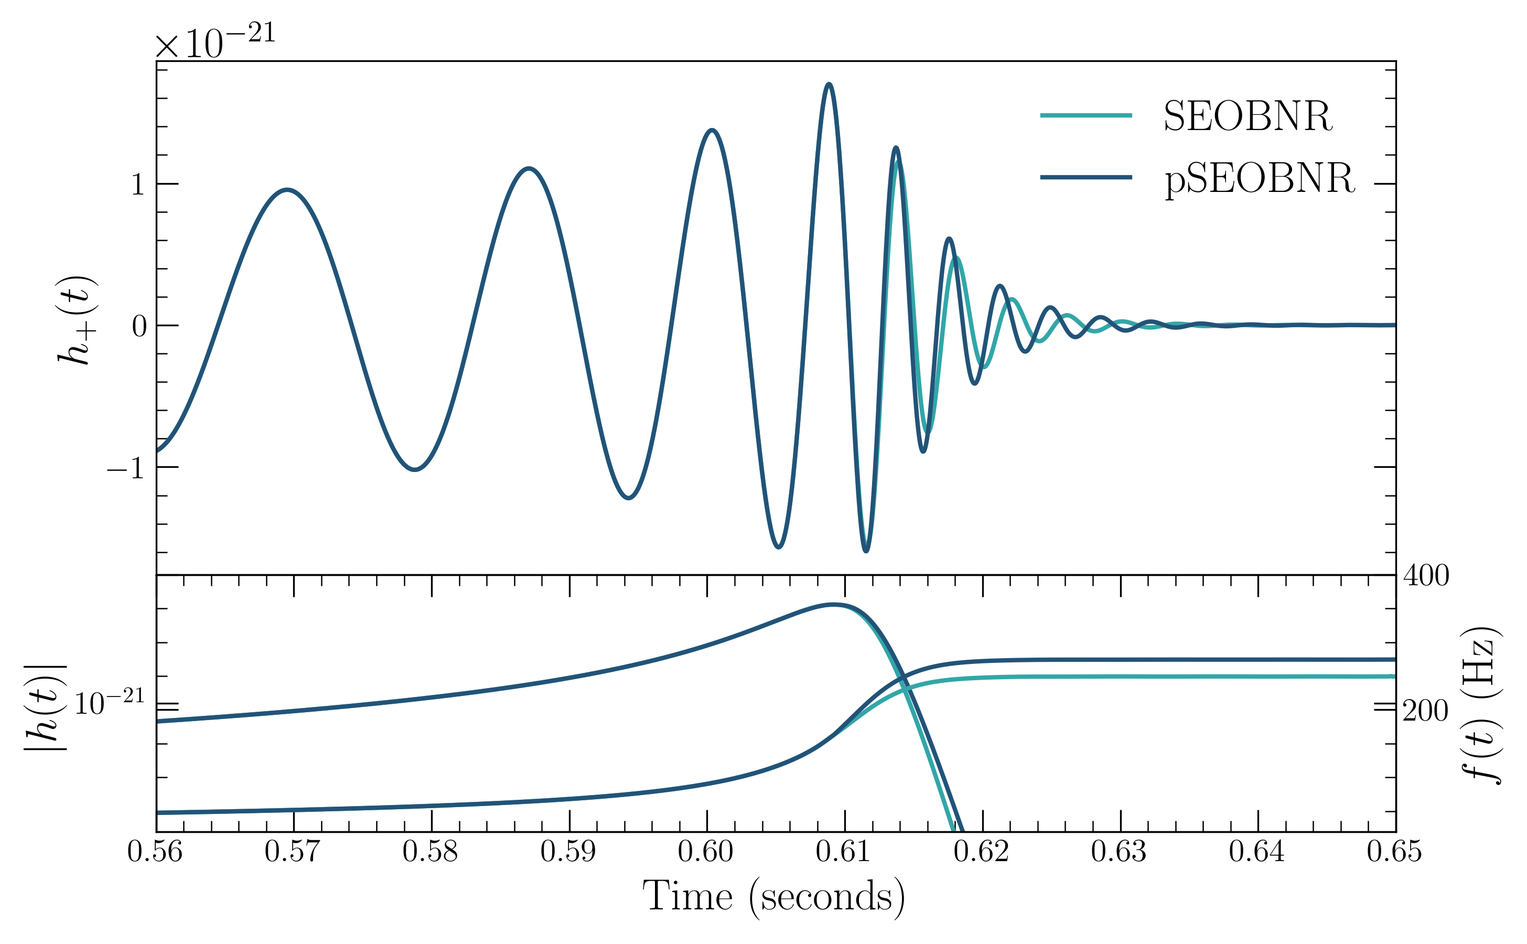
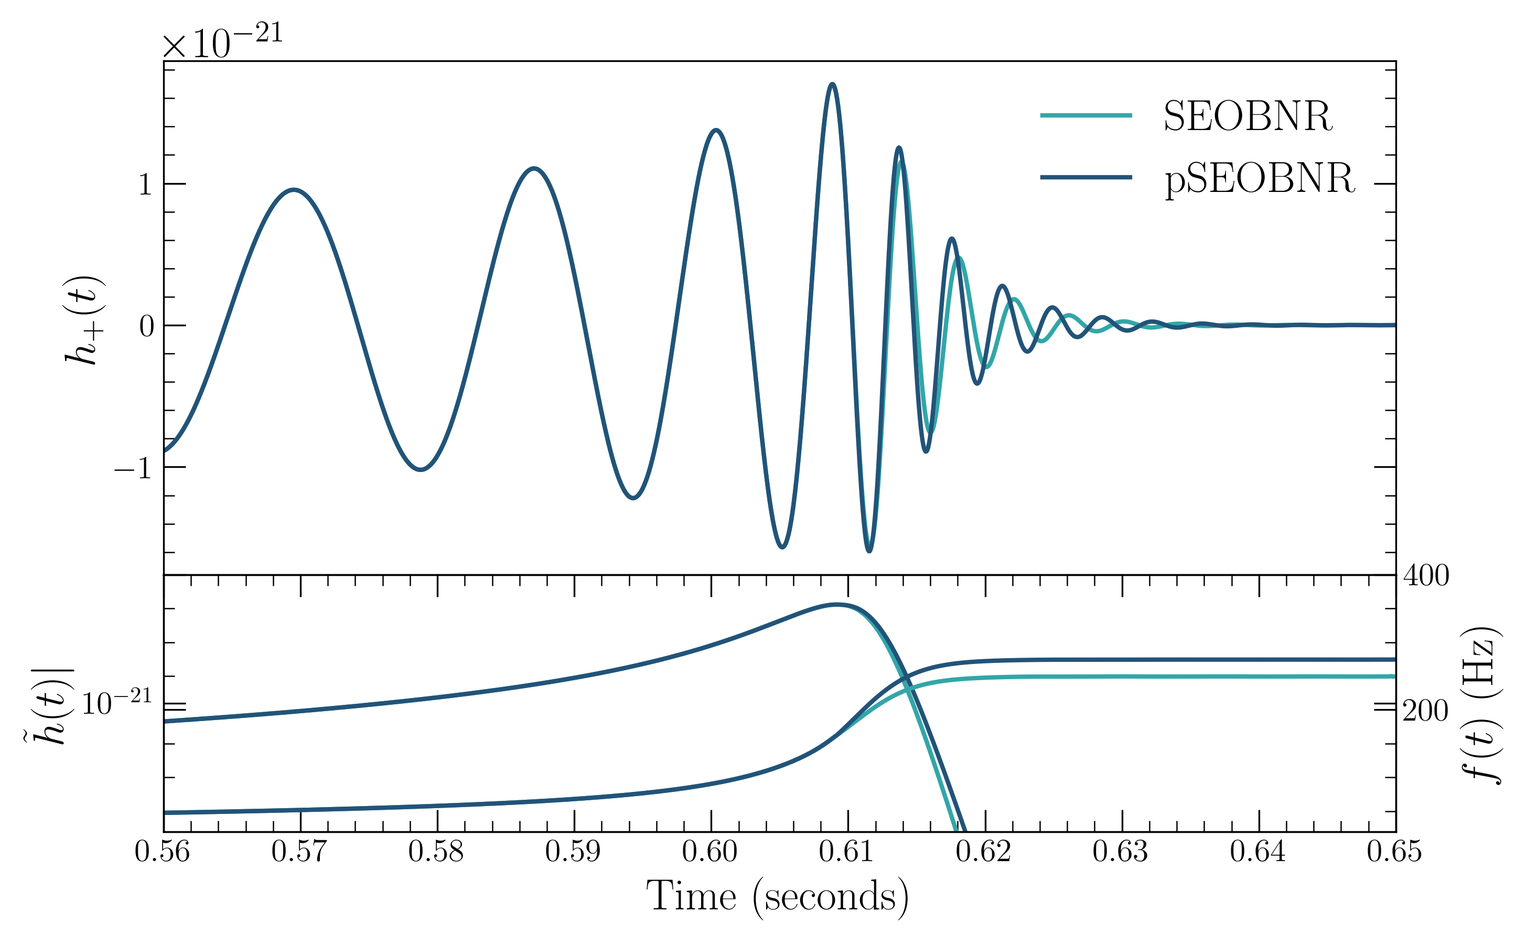
minor changes

diff --git a/papers/intro_paper/results_synthetic.tex b/papers/intro_paper/results_synthetic.tex
@@ -1,9 +1,9 @@
 \subsection{Simulations using GR signals in Gaussian noise} \label{ssec:gr_signal}
 
-We \ab{now} demonstrate our method using synthetic-signal injections describing GWs
+We now demonstrate our method using synthetic-signal injections describing GWs
 from BBHs in GR. We employ coloured Gaussian noise with PSDs for LIGO and
-Virgo detectors \ab{during the fourth observing (O4) run} (i.e., at design sensitivity)\ab{, which 
-is expected to start yin the second half of 2022}~\cite{AdvLIGOPSD,TheVirgo:2014hva}.
+Virgo detectors during the fourth observing (O4) run (i.e., at design sensitivity), which 
+is expected to start yin the second half of 2022~\cite{AdvLIGOPSD,TheVirgo:2014hva}.
 For the mock BBH signals, we choose parameters similar to two specific GW events, GW150914~\cite{Abbott:2016blz} and
 GW190521~\cite{Abbott:2020tfl}. We list them in Table~\ref{tab:injection_values}.
 These two binary systems are representative of the kind of systems for which
@@ -30,7 +30,7 @@ pre- and post-merger SNRs return reliable parameter-estimation results.
           and damping time of the $(2,2)$ QNM, $(\df{220},\dtau{220})$
           (left panels) and the reconstructed quantities,
           $(\fngr{220}, \taungr{220})$ (right panels) for GR
-          injections \ab{($\SEOB$)} with initial parameters similar to GW150914 (top
+          injections ($\SEOB$) with initial parameters similar to GW150914 (top
           panels) and GW190521 (bottom panels)
           (see Table~\ref{tab:injection_values}). The 2D contour marks the
           90\% credible region, while the dashed lines on the 1D
@@ -50,7 +50,7 @@ simulate our GW signal. And to avoid systematic biases due to noise,
 we use an averaged (zero-noise) realization of the noise. \footnote{A detailed
 study on noise systematics for one of the GW events is presented in
 Appendix~\ref{sec:noise_systematics}.}  As in the case of the actual
-detections \ab{of GW150914 and GW190521}, we consider a two-detector LIGO network at
+detections of GW150914 and GW190521, we consider a two-detector LIGO network at
 Hanford and Livingston, having identical PSDs. The distance to the two 
 synthetic events is rescaled such that the SNR in the detector network
 is the same as the actual events (i.e., 24 for GW150914 and 14
@@ -88,7 +88,7 @@ although the pre-merger signal is identical to GR. In Fig.~\ref{fig:nongr_wavefo
 we show this non-GR waveform, \texttt{pSEOBNR} with respect to the 
 original GR template, \texttt{SEOBNR}. We see that the waveforms are identical in amplitude
 and instanteneous frequency upto the merger (lower panel) , beyond which the 
-red (GR template) and blue (non-GR template) \sout{diverge} \ab{differ}. We summarize the results of the Bayesian analysis in Fig.~\ref{fig:simulated_signal_nonGR} where we
+red (GR template) and blue (non-GR template) differ. We summarize the results of the Bayesian analysis in Fig.~\ref{fig:simulated_signal_nonGR} where we
 show the posterior probability distributions for $(\df{220}, \dtau{220})$, or equivalently
 $(\fngr{220}, \taungr{220})$. We find that they are consistent with the corresponding
 values of the injection parameters, indicated by the black dashed lines.
@@ -97,7 +97,7 @@ values of the injection parameters, indicated by the black dashed lines.
 %%%%%%%%%%%%%%%%%%%%%%%%%%%%%%%%%%%%%%%%%%%%%%%%%%%%%%%%%%%%%%%
 \begin{figure}
         \includegraphics[width=0.5\textwidth]{figures/modGR_waveforms_amplitudephase.png}
-        \caption{\textcolor{red}{FINAL RESULT} Top panel: The `+'--polarization of the gravitational waveform $h_+(t)$ from a GW150914-like event where the post-merger is described by GR (i.e., $\df{220} = \dtau{220} = 0$), and where the merger-ringdown is modified (i.e., $\df{220} = \dtau{220} = 0.1$). Bottom panel: Comparison of the evolution of the amplitude, $\tilde{h}(t)$ (left) \comment{AB: what is the amplitude $h$? How is it obtained from the polarizations?} and instantaneous frequency, $f(t)$ (right) for the GR and non-GR signal.}
+        \caption{\textcolor{red}{FINAL RESULT} Top panel: The `+'--polarization of the gravitational waveform $h_+(t)$ from a GW150914-like event where the post-merger is described by GR (i.e., $\df{220} = \dtau{220} = 0$), and where the merger-ringdown is modified (i.e., $\df{220} = \dtau{220} = 0.1$). Bottom panel: Comparison of the evolution of the amplitude, $\tilde{h}(t)$ (left) and instantaneous frequency, $f(t)$ (right) for the GR and non-GR signal.}
         \label{fig:nongr_waveform}
 \end{figure}
 %%%%%%%%%%%%%%%%%%%%%%%%%%%%%%%%%%%%%%%%%%%%%%%%%%%%%%%%%%%%%%%
@@ -110,7 +110,7 @@ values of the injection parameters, indicated by the black dashed lines.
 \begin{center}
         \includegraphics[width=0.5\textwidth]{figures/GW150914_simulated_signal_0p1_deltaf220_deltatau220.png}\includegraphics[width=0.5\textwidth]{figures/GW150914_simulated_signal_0p1_gr_ngr_fngrtaungr.png}
         \includegraphics[width=0.5\textwidth]{figures/GW190521_simulated_signal_0p1_deltaf220_deltatau220.png}\includegraphics[width=0.5\textwidth]{figures/GW190521_simulated_signal_0p1_gr_ngr_fngrtaungr.png}
-        \caption{\textcolor{red}{FINAL RESULT} Posterior probability distribution on the fractional deviations in the frequency and damping time of the $(2,2)$ QNM, $(\df{220},\dtau{220})$ (left panels) and the reconstructed quantities, $(\fngr{220}, \taungr{220})$ (right panels) for non-GR injections \ab{($\pSEOB$)} with parameters of GW150914-like (top panels) and GW190521-like (bottom panels) as given in Table~\ref{tab:injection_values}. The non-GR signal has a deviation, $\df{220} = \dtau{220} = 0.1$. The 2D contour marks the 90\% credible region, while the dashed lines on the 1D marginalized distributions mark the 90\% credible levels. The black vertical and horizontal lines mark the injection values. In the right panels, we additionally show measurements using a GR ($\SEOB$) waveform, for the
+        \caption{\textcolor{red}{FINAL RESULT} Posterior probability distribution on the fractional deviations in the frequency and damping time of the $(2,2)$ QNM, $(\df{220},\dtau{220})$ (left panels) and the reconstructed quantities, $(\fngr{220}, \taungr{220})$ (right panels) for non-GR injections ($\pSEOB$) with parameters of GW150914-like (top panels) and GW190521-like (bottom panels) as given in Table~\ref{tab:injection_values}. The non-GR signal has a deviation, $\df{220} = \dtau{220} = 0.1$. The 2D contour marks the 90\% credible region, while the dashed lines on the 1D marginalized distributions mark the 90\% credible levels. The black vertical and horizontal lines mark the injection values. In the right panels, we additionally show measurements using a GR ($\SEOB$) waveform, for the
 GW150914-like (upper panel) and GW190521-like (lower panel) injections. The measurements with $\SEOB$ waveforms are visibly biased.}
         \label{fig:simulated_signal_nonGR}
 \end{center}
@@ -156,12 +156,7 @@ resulting one- and two-dimensional posteriors are shown in the right
 panels of Fig.~\ref{fig:simulated_signal_nonGR} by red curves for the
 GW150914-like (top) and GW190521-like (bottom) signals
 respectively. For both signals, we find the $\SEOB$ estimates are
-markedly biased with respect to the $\pSEOB$ estimates. \sout{This can be
-explained by the inability of the $\SEOB$ template waveform to capture
-all the physics in the $\pSEOB$ signal.} \comment{AB: I erased the previous sentence because 
-$\pSEOB$ has not ``more'' physics. We varied the QNMs by 10\% with respect GR, we have a different gravity theory 
-which we cannot match with a GR template. I don't think we need to give any explanation of the results, 
-they are self-evident to me.} We also notice that the
+markedly biased with respect to the $\pSEOB$ estimates. We also notice that the
 results are distinctly different for the two events. For the
 GW150914-like non-GR signal, the measurements of $(\fgr{220},
 \taugr{220})$ (top right panel in
@@ -176,8 +171,7 @@ GW190521-like non-GR signal, a simple GR analysis of the non-GR signal
 would have yielded measurements distinctly different from either of
 the two parameterized estimates: with and without deviations.
 
-Finally, we investigate the impact on the estimation of \ab{the} GR parameters
-\sout{discussed in Sec.~\ref{sec:method},} $\bxigr$ as we change the
+Finally, we investigate the impact on the estimation of the GR parameters $\bxigr$ as we change the
 magnitude of deviation in the non-GR parameters. We restrict ourselves 
 to a GW150914-like event, and for comparison, add a synthetic signal
 with $\df{220} = \dtau{220} = 0.5$, or 50 \% deviation, alongside the
@@ -220,39 +214,39 @@ We also choose the distance and orientation of the binary
 such that the total SNR in the three-detector network of LIGO Hanford, Livingston and
 Virgo, is \macro{$\sim$ 70}. Based on the LIGO-Virgo observations during the first three observing runs, 
 such asymmetric and loud signals are no longer just a theoretical
-prediction, but quite plausible \ab{during O4.} \sout{at design sensitivities.} Using this
-signal, we attempt to measure both the $(2,\pm 2)$ and
-$(3,\pm 3)$ QNMs. For this injected signal the SNR in
+prediction, but quite plausible during O4. Using this
+signal, we attempt to measure both the $(2,2)$ and
+$(3,3)$ QNMs. For this injected signal the SNR in
 other sub-dominant modes is too low to be able to measure them.
 
 We summarize our results in Fig.~\ref{fig:nohair_sxs}.  Given the
-injection parameters, the predicted values of the $(2,\pm 2)$ and
-$(3,\pm 3)$ frequency and damping time are \macro{(169.45 Hz, 4.68
+injection parameters, the predicted values of the $(2, 2)$ and
+$(3, 3)$ frequency and damping time are \macro{(169.45 Hz, 4.68
   ms)} and \macro{(271.21 Hz, 4.50 ms)} respectively. The left panel
 of Fig.~\ref{fig:nohair_sxs} shows that the 2D posteriors
-on the $(2,\pm 2)$ and $(3,\pm 3)$ QNMs are consistent with the
+on the $(2, 2)$ and $(3, 3)$ QNMs are consistent with the
 predictions for a BBH merger in GR, indicated by the black plus sign.
 Using fitting formulae provided in Ref.~\cite{Berti:2005ys}, specifically,
 Eq.~(2.1), Eq.~(E1) and Eq.~(E3) and Tables VIII and IX for the fitting coefficients,
 we infer the 2D posterior probability distribution on the
-final mass and spin for the $(2,\pm 2)$ (blue) and $(3,\pm 3)$ (red)
+final mass and spin for the $(2, 2)$ (blue) and $(3, 3)$ (red)
 QNMs in the right panel of Fig.~\ref{fig:nohair_sxs}. The two
 independent estimates are consistent with each other and correspond to
 a unique mass and spin for the remnant BH \macro{(83.08 $\Mo$, 0.37)}
 indicated by the plus sign. As a consequence, this may be considered
 as a test of the no-hair conjecture. For most of the events observed
-so far, the power in the $(3,\pm 3)$ has not been sufficient to
-measure it along with the $(2,\pm 2)$, or in fact, in its
+so far, the power in the $(3, 3)$ has not been sufficient to
+measure it along with the $(2, 2)$, or in fact, in its
 place. However, it might also be possible to combine information from
 multiple observation over the coming few years to obtain meaningful
-constraints on the $(3,\pm 3)$ and other sub-dominant QNMs.
+constraints on the $(3, 3)$ and other sub-dominant QNMs.
 
 %%%%%%%%%%%%%%%%%%%%%%%%%%%%%%%%%%%%%%%%%%%%%%%%%%%%%%%%%%%%%%%
 
 %%%%%%%%%%%%%%%%%%%%%%%%%%%%%%%%%%%%%%%%%%%%%%%%%%%%%%%%%%%%%%%
 \begin{figure}
         \includegraphics[width=0.5\textwidth]{figures/nohair_sxs_0166.png}
-        \caption{\textcolor{red}{PRELIMINARY} Posterior probability distribution on the fractional deviations (left panel) and the reconstructed (right panel) frequency and damping time of the $(2,\pm 2)$ (blue curves) and $(3,\pm 3)$ (red curves) QNM, respectively, when a NR signal with parameters $q=6$,  $M=84 \Mo$ and SNR $=75$ is injected in Gaussian noise and recovered with the $\pSEOB$ waveform model. The plus signs mark the GR predictions.}
+        \caption{\textcolor{red}{FINAL RESULT} Posterior probability distribution on the fractional deviations (left panel) and the reconstructed (right panel) frequency and damping time of the $(2, 2)$ (blue curves) and $(3, 3)$ (red curves) QNM, respectively, when a NR signal with parameters $q=6$,  $M=84 \Mo$ and SNR $=75$ is injected in Gaussian noise and recovered with the $\pSEOB$ waveform model. The plus signs mark the GR predictions.}
         \label{fig:nohair_sxs}
 \end{figure}
 %%%%%%%%%%%%%%%%%%%%%%%%%%%%%%%%%%%%%%%%%%%%%%%%%%%%%%%%%%%%%%%

diff --git a/papers/intro_paper/results_lvc.tex b/papers/intro_paper/results_lvc.tex
@@ -3,7 +3,7 @@
 %%%%%%%%%%%%%%%%%%%%%%%%%%%%%%%%%%%%%%%%%%%%%%%%%%%%%%%%%%%%%%%
 \begin{figure*}
         \includegraphics[width=0.5\textwidth]{figures/rin_pseob_results_v2.pdf}\includegraphics[width=0.3\textwidth]{figures/rin_all_events_bounds.pdf}
-        \caption{\emph{Left panel}:The 90\% credible levels of the posterior probability distribution of the fractional deviations in the frequency and damping time of the $(2,\pm 2)$ QNM, $(\df{220},\dtau{220})$ and their corresponding one-dimensional marginalized posterior distributions, for events from O1, O2 and O3a passing a SNR threshold of $8$ in both the pre- and post-merger signal. The solid red curve marks the best single-event constraint, GW150914, whereas the contraints from the other events are indicated by the dash-dot curves. The joint constraints on $(\df{220},\dtau{220})$ obtained multiplying the likelihoods from individual events is given by the filled grey contours, while the hierarchical method of combination yields the black dot dashed curves. \emph{Right panel}: 90\% credible interval on the one-dimensional marginalised posteriors on $\delta \sigma_i=(\df{220},\dtau{220})$, colored by the median redshifted total mass $(1 + z)M$, inferred assuming GR. Filled gray (unfilled black) triangles mark the constraints obtained when all the events are combined by multiplying likelihoods (hierarchically).}
+        \caption{\emph{Left panel}:The 90\% credible levels of the posterior probability distribution of the fractional deviations in the frequency and damping time of the $(2, 2)$ QNM, $(\df{220},\dtau{220})$ and their corresponding one-dimensional marginalized posterior distributions, for events from O1, O2 and O3a passing a SNR threshold of $8$ in both the pre- and post-merger signal. The solid red curve marks the best single-event constraint, GW150914, whereas the contraints from the other events are indicated by the dash-dot curves. The joint constraints on $(\df{220},\dtau{220})$ obtained multiplying the likelihoods from individual events is given by the filled grey contours, while the hierarchical method of combination yields the black dot dashed curves. \emph{Right panel}: 90\% credible interval on the one-dimensional marginalised posteriors on $\delta \sigma_i=(\df{220},\dtau{220})$, colored by the median redshifted total mass $(1 + z)M$, inferred assuming GR. Filled gray (unfilled black) triangles mark the constraints obtained when all the events are combined by multiplying likelihoods (hierarchically).}
         \label{fig:o1o2_events}
 \end{figure*}
 %%%%%%%%%%%%%%%%%%%%%%%%%%%%%%%%%%%%%%%%%%%%%%%%%%%%%%%%%%%%%%%
@@ -13,7 +13,7 @@
 
 The LIGO-Virgo Collaboration recently released their testing GR
 catalogue containing results for events observed
-during O3a~\cite{Abbott:2020jks}. For the test that we here present, the results shown in Ref.~\cite{Abbott:2020jks} only include events which pass a threshold for the median \sout{redshifted} \ab{detector} total mass $\geq 90 \Mo$ and SNRs in the pre- and
+during O3a~\cite{Abbott:2020jks}. For the test that we here present, the results shown in Ref.~\cite{Abbott:2020jks} only include events which pass a threshold for the median detector-frame total mass $\geq 90 \Mo$ and SNRs in the pre- and
 post-merger regions $\geq 8$~\footnote{The pre- and post-merger regions of the signal are identified from the signal's power before and after the signal reaches the peak's amplitude, which is determined from the maximum of the likelihood function obtained with the parameter-estimation analysis. The SNR values are listed in Table 4 of Ref.~\cite{Abbott:2020jks}}. 
 %
 The SNR threshold ensures that the signal contains sufficient
@@ -31,8 +31,8 @@ for the analysis, for this paper we run the test on all the events
 listed in Ref.~\cite{Abbott:2020jks} that have SNRs in the pre- and
 post-merger regions $\geq 8$, without imposing any mass threshold.
 
-\ab{Given the above we add the signals}  GW190630$\_$185205 and GW190828$\_$063405, to the list of GW events considered in Ref.~\cite{Abbott:2020jks}. \ab{Furthermore, for the first time, 
-we apply our method to measure the QNMs to GW events from O1 and O2, notably GW150914 and GW170104.} The other high-mass events from O1 and O2, GW170729, GW170809,
+Given the above we add the signals  GW190630$\_$185205 and GW190828$\_$063405, to the list of GW events considered in Ref.~\cite{Abbott:2020jks}. Furthermore, for the first time, 
+we apply our method to measure the QNMs to GW events from O1 and O2, notably GW150914 and GW170104. The other high-mass events from O1 and O2, GW170729, GW170809,
 GW170814, GW170818 and GW170823 do not have an SNR $\geq 8$ in the
 merger-ringdown signal. The list of the signals for which we run the analysis is given in Table~\ref{tab:qnm_o1o2_results}~\footnote{See Table IV of Ref.~\cite{Abbott:2020jks} for a list of the SNR
   thresholds. The paper quotes them for the purpose of the IMR
@@ -43,9 +43,7 @@ For all the relevant signals, we show the posterior distributions
 $(\df{220}, \dtau{220})$ in the left panel of
 Fig.~\ref{fig:o1o2_events} and also provide the reconstructed QNM
 parameters, $(\fngr{220}, \taungr{220})$ in
-Table~\ref{tab:qnm_o1o2_results}. \comment{AB: could you explain how the mass 
-and spin in Table II are computed? I think we should also list the mass and 
-spin fron NR fits.} In the right panel of
+Table~\ref{tab:qnm_o1o2_results}. In the right panel of
 Fig.~\ref{fig:o1o2_events} we also provide a summary of the 90\%
 credible intervals on the 1D marginalized posteriors. We highlight the
 dependence of the constraints on the total mass of the
@@ -84,8 +82,8 @@ the joint likelihood. We show these joint likelihoods on $(\df{220}, \dtau{220})
 \end{equation}
 %
 
-\ab{However, the deviations parameters $(\df{220},\dtau{220})$ depend in general on the source's parameters, so they are not constant across the GW signals observed by LIGO and Virgo.}
-As described in Ref.~\cite{Abbott:2020jks}, we can relax the assumption of a \sout{shared} \ab{constant} deviation across all events by using the hierarchical inference technique originally proposed in Refs.~\cite{Zimmerman:2019wzo,Isi:2019asy}. The general idea behind this technique is to assume that the non-GR parameters $(\df{220},\dtau{220})$ are drawn from a common underlying distribution, whose properties can be inferred from the population of events. Following~\cite{Zimmerman:2019wzo,Isi:2019asy,Abbott:2020jks} we model the population distribution with a Gaussian  $\mathcal{N}(\mu,\sigma)$ of unknown mean $\mu$ and standard deviation $\sigma$. Under those assumptions, the goal is then to directly measure a posterior distribution $P(\mu, \sigma |  \{d_j\}) $ for $\mu$ and $\sigma$ from a joint analysis of all the GW events. If GR is correct, then this posterior should be consistent with $\mu=0$ and $\sigma=0$. From Bayes' theorem it follows that~\cite{Isi:2019asy}:
+However, the deviations parameters $(\df{220},\dtau{220})$ depend in general on the source's parameters, so they are not constant across the GW signals observed by LIGO and Virgo.
+As described in Ref.~\cite{Abbott:2020jks}, we can relax the assumption of a constant deviation across all events by using the hierarchical inference technique originally proposed in Refs.~\cite{Zimmerman:2019wzo,Isi:2019asy}. The general idea behind this technique is to assume that the non-GR parameters $(\df{220},\dtau{220})$ are drawn from a common underlying distribution, whose properties can be inferred from the population of events. Following~\cite{Zimmerman:2019wzo,Isi:2019asy,Abbott:2020jks} we model the population distribution with a Gaussian  $\mathcal{N}(\mu,\sigma)$ of unknown mean $\mu$ and standard deviation $\sigma$. Under those assumptions, the goal is then to directly measure a posterior distribution $P(\mu, \sigma |  \{d_j\}) $ for $\mu$ and $\sigma$ from a joint analysis of all the GW events. If GR is correct, then this posterior should be consistent with $\mu=0$ and $\sigma=0$. From Bayes' theorem it follows that~\cite{Isi:2019asy}:
 %
 \begin{equation}
 P(\mu, \sigma |  \{d_j\}) \propto P(\mu,\sigma)\prod _{j=1}^N P(d_j |\, \mu, \sigma) \,,
@@ -116,13 +114,12 @@ Compared to Ref.~\cite{Abbott:2020jks} these constraints are almost a factor $\s
 %%%%%%%%%%%%%%%%%%%%%%%%%%%%%%%%%%%%%%%%%%%%%%%%%%%%%%%%%%%%%%%
 % Table for LVC values
 %%%%%%%%%%%%%%%%%%%%%%%%%%%%%%%%%%%%%%%%%%%%%%%%%%%%%%%%%%%%%%%
-\begin{table}
+\begin{table*}
 \input{table_lvc_results}
-\caption{The median and symmetric 90\% credible intervals of the frequency and damping time of the $(2,\pm2)$ QNM \comment{AB: I believe it should be just $(2,2)$.}, and the mass and spin of the remnant object estimated from 
-the QNM frequencies \ab{using the $\pSEOB$ model. We indicate with a star the GW events that were analysed in this paper, the other events were examined in Ref.~\cite{Abbott:2020jks}.} 
-\comment{AB: I would add the mass and spin of the remnant from NR fits, as well. The final mass should be multiplied by $(1+z)$. Correct?}}
+\caption{The median and symmetric 90\% credible intervals of the frequency and damping time of the $(2,2)$ QNM, and the mass and spin of the remnant object estimated from 
+the QNM frequencies using the $\pSEOB$ model. We indicate with a star the GW events that were analysed in this paper, the other events were examined in Ref.~\cite{Abbott:2020jks}. }
 \label{tab:qnm_o1o2_results}
-\end{table}
+\end{table*}
 
 %%%%%%%%%%%%%%%%%%%%%%%%%%%%%%%%%%%%%%%%%%%%%%%%%%%%%%%%%%%%%%%
 %%%%%%%%%%%%%%%%%%%%%%%%%%%%%%%%%%%%%%%%%%%%%%%%%%%%%%%%%%%%%%%

diff --git a/papers/intro_paper/table_lvc_results.tex b/papers/intro_paper/table_lvc_results.tex
@@ -1,7 +1,6 @@
-
-\begin{tabular}{lllll}
+\begin{tabular}{lllllll}
 \toprule
-Event & $\fngr{220}$ (Hz) & $\taungr{220}$ (ms) & $M_f/\Mo$ & $a_f$ \\[0.075cm]
+Event & $\fngr{220}$ (Hz) & $\taungr{220}$ (ms) & $(1+z)M_f/\Mo$ & $\chi_f$ & $(1+z)M_{f,,IMR}/\Mo$ & $\chi_{f,IMR}$\\[0.075cm]
 \midrule
 \hline
 
@@ -9,49 +8,63 @@ GW150914$^\star$ &
 $258^{+17}_{-13}$ &
 $4.5^{+1.1}_{-0.9}$ &
 $71^{+9}_{-10}$ &
-$0.8^{+0.1}_{-0.2}$
+$0.8^{+0.1}_{-0.2}$ &
+$68.9^{+3.6}_{-3.1}$ &
+$0.69^{+0.05}_{-0.04}$
 \\[0.075cm]
 
 GW170104$^\star$ &
 $291^{+15}_{-30}$ &
 $5.5^{+3.5}_{-2.4}$ &
 $74^{+11}_{-20}$ &
-$0.9^{+0.1}_{-0.4}$
+$0.9^{+0.1}_{-0.4}$&
+$58.5^{+4.6}_{-4.1}$ &
+$0.66^{+0.08}_{-0.11}$
 \\[0.075cm]
 
 GW190519\_153544 &
 $124^{+12}_{-13}$ &
 $10.3^{+3.6}_{-3.1}$ &
 $155^{+24}_{-30}$ &
-$0.8^{+0.1}_{-0.3}$
+$0.8^{+0.1}_{-0.3}$&
+$148.2^{+14.5}_{-15.5}$ &
+$0.80^{+0.07}_{-0.12}$
 \\[0.075cm]
 
 GW190521\_074359 &
 $205^{+15}_{-12}$ &
 $5.3^{+1.5}_{-1.2}$ &
 $86^{+12}_{-14}$ &
-$0.7^{+0.1}_{-0.3}$
+$0.7^{+0.1}_{-0.3}$&
+$88.1^{+4.3}_{-4.9}$ &
+$0.72^{+0.05}_{-0.07}$
 \\[0.075cm]
 
 GW190630\_185205$^\star$ &
 $248^{+32}_{-53}$ &
 $3.9^{+2.4}_{-1.8}$ &
 $66^{+19}_{-42}$ &
-$0.6^{+0.3}_{-0.6}$
+$0.6^{+0.3}_{-0.6}$&
+$69^{+4}_{-3}$ &
+$0.69^{+0.05}_{-0.04}$
 \\[0.075cm]
 
 GW190828\_063405$^\star$ &
 $258^{+201}_{-28}$ &
 $4.2^{+4.2}_{-1.9}$ &
 $67^{+26}_{-30}$ &
-$0.8^{+0.2}_{-0.7}$
+$0.8^{+0.2}_{-0.7}$&
+$75.9^{+6.0}_{-5.2}$ &
+$0.76^{+0.06}_{-0.07}$
 \\[0.075cm]
 
 GW190910\_112807 &
 $174^{+12}_{-8}$ &
 $9.5^{+3.1}_{-2.7}$ &
 $123^{+15}_{-18}$ &
-$0.9^{+0.0}_{-0.1}$
+$0.9^{+0.0}_{-0.1}$&
+$97.3^{+9.4}_{-7.1}$ &
+$0.70^{+0.08}_{-0.07}$
 \\[0.075cm]
 
 \bottomrule

diff --git a/papers/intro_paper/model_method.tex b/papers/intro_paper/model_method.tex
@@ -171,7 +171,7 @@ P(\bxingr | d, \mathcal{H})= \int P(\blambda | d, \mathcal{H}) d\bxigr\,.
 
 For most of the results discussed in this paper, we restrict ourselves
 to the $(\ell m) = (2,2)$ and/or $(3,3)$ modes. In those cases we assume $\bxingr = \{\df{220},\dtau{220}\}$ and/or $
-\{\df{330},\dtau{330}\}$, and \ab{fix} all the other $(\ell m)$ modes to \sout{be
+\{\df{330},\dtau{330}\}$, and fix all the other $(\ell m)$ modes to \sout{be
 fixed at} their GR predictions (i.e., $\delta f_{\ell m 0} = \delta
 \tau_{\ell m 0} = 0$). This is because, for most of the high-mass BH
 events that we find most appropriate for this test, the LIGO-Virgo

diff --git a/papers/intro_paper/table_injection_values.tex b/papers/intro_paper/table_injection_values.tex
@@ -2,7 +2,7 @@
 \begin{center}
 \begin{tabular}{ c|c|c|c|c|c|c|c }
 
- \ab{synthetic signal} & \makecell{$m_{\rm 1\,det}$ \\$(\Mo)$} &  \makecell{$m_{\rm 2\,det}$ \\ $(\Mo)$} & $\chi_{1}$ & $\chi_{2}$ & $\rho_\text{IMR}$ & $\rho_\text{insp}$ & $\rho_\text{postinsp}$ \\
+Signal & \makecell{$m_{\rm 1\,det}$ \\$(\Mo)$} &  \makecell{$m_{\rm 2\,det}$ \\ $(\Mo)$} & $\chi_{1}$ & $\chi_{2}$ & $\rho_\text{IMR}$ & $\rho_\text{insp}$ & $\rho_\text{postinsp}$ \\
  \hline
  GW150914-like & 39 & 31 & 0.0 & 0.0 & 25 & 22 & 12 \\
  GW190521-like & 150 & 120 & 0.02 & -0.39 & 20 & 8 & 18 \\
